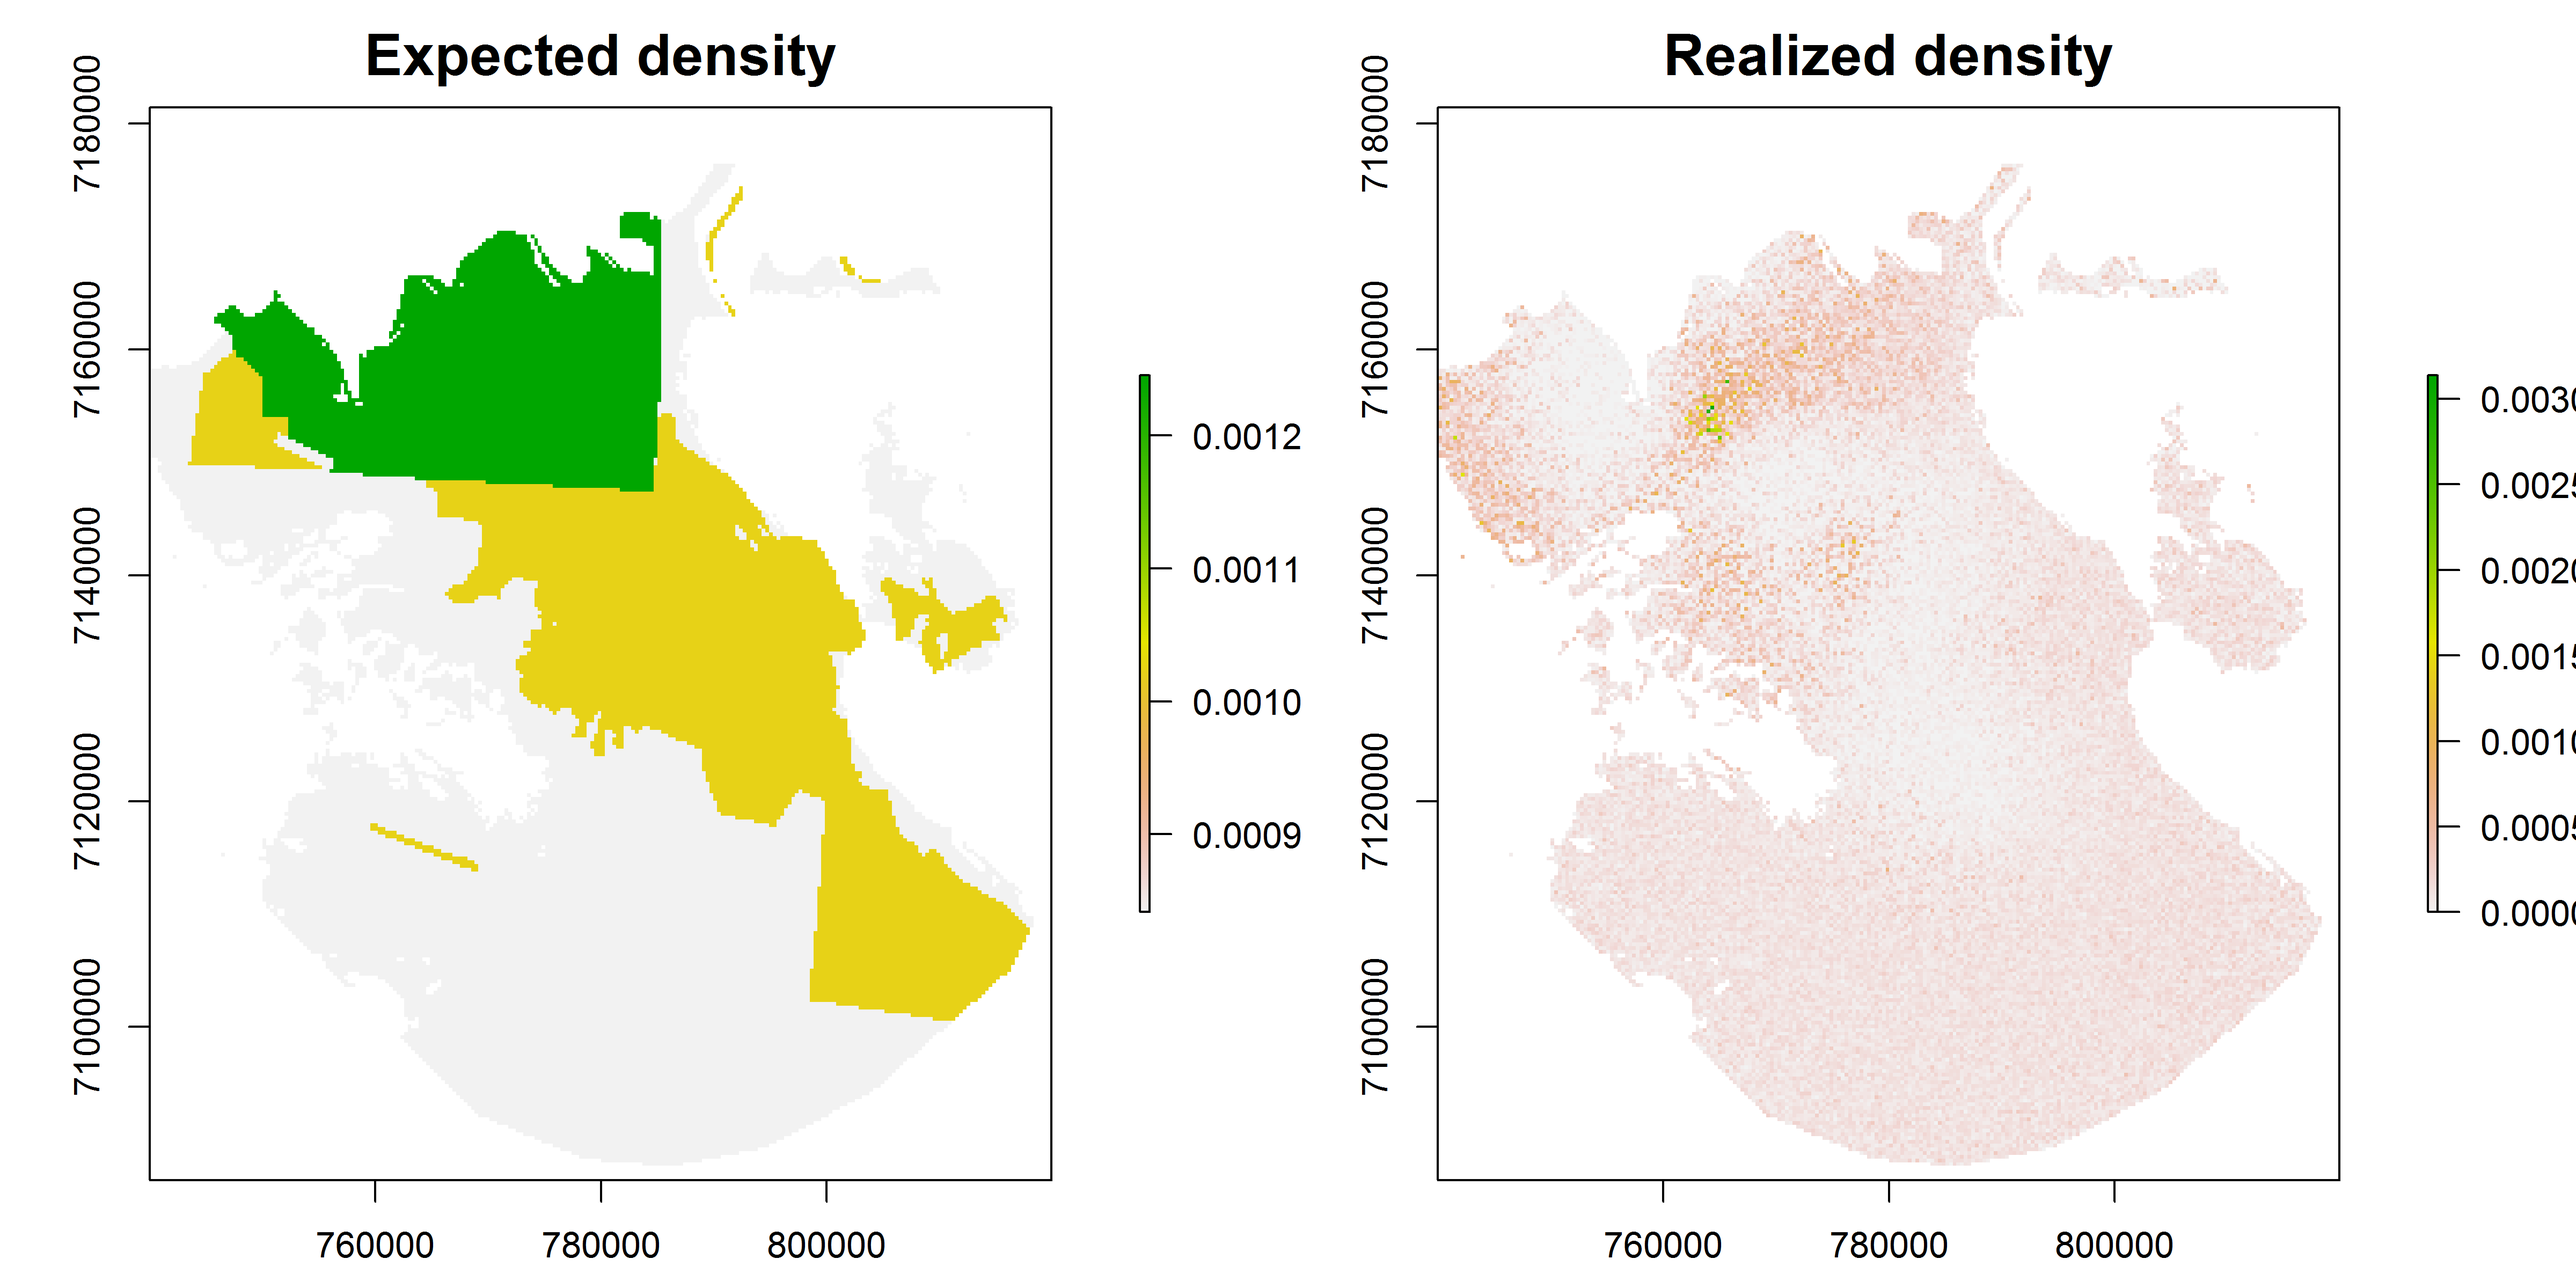
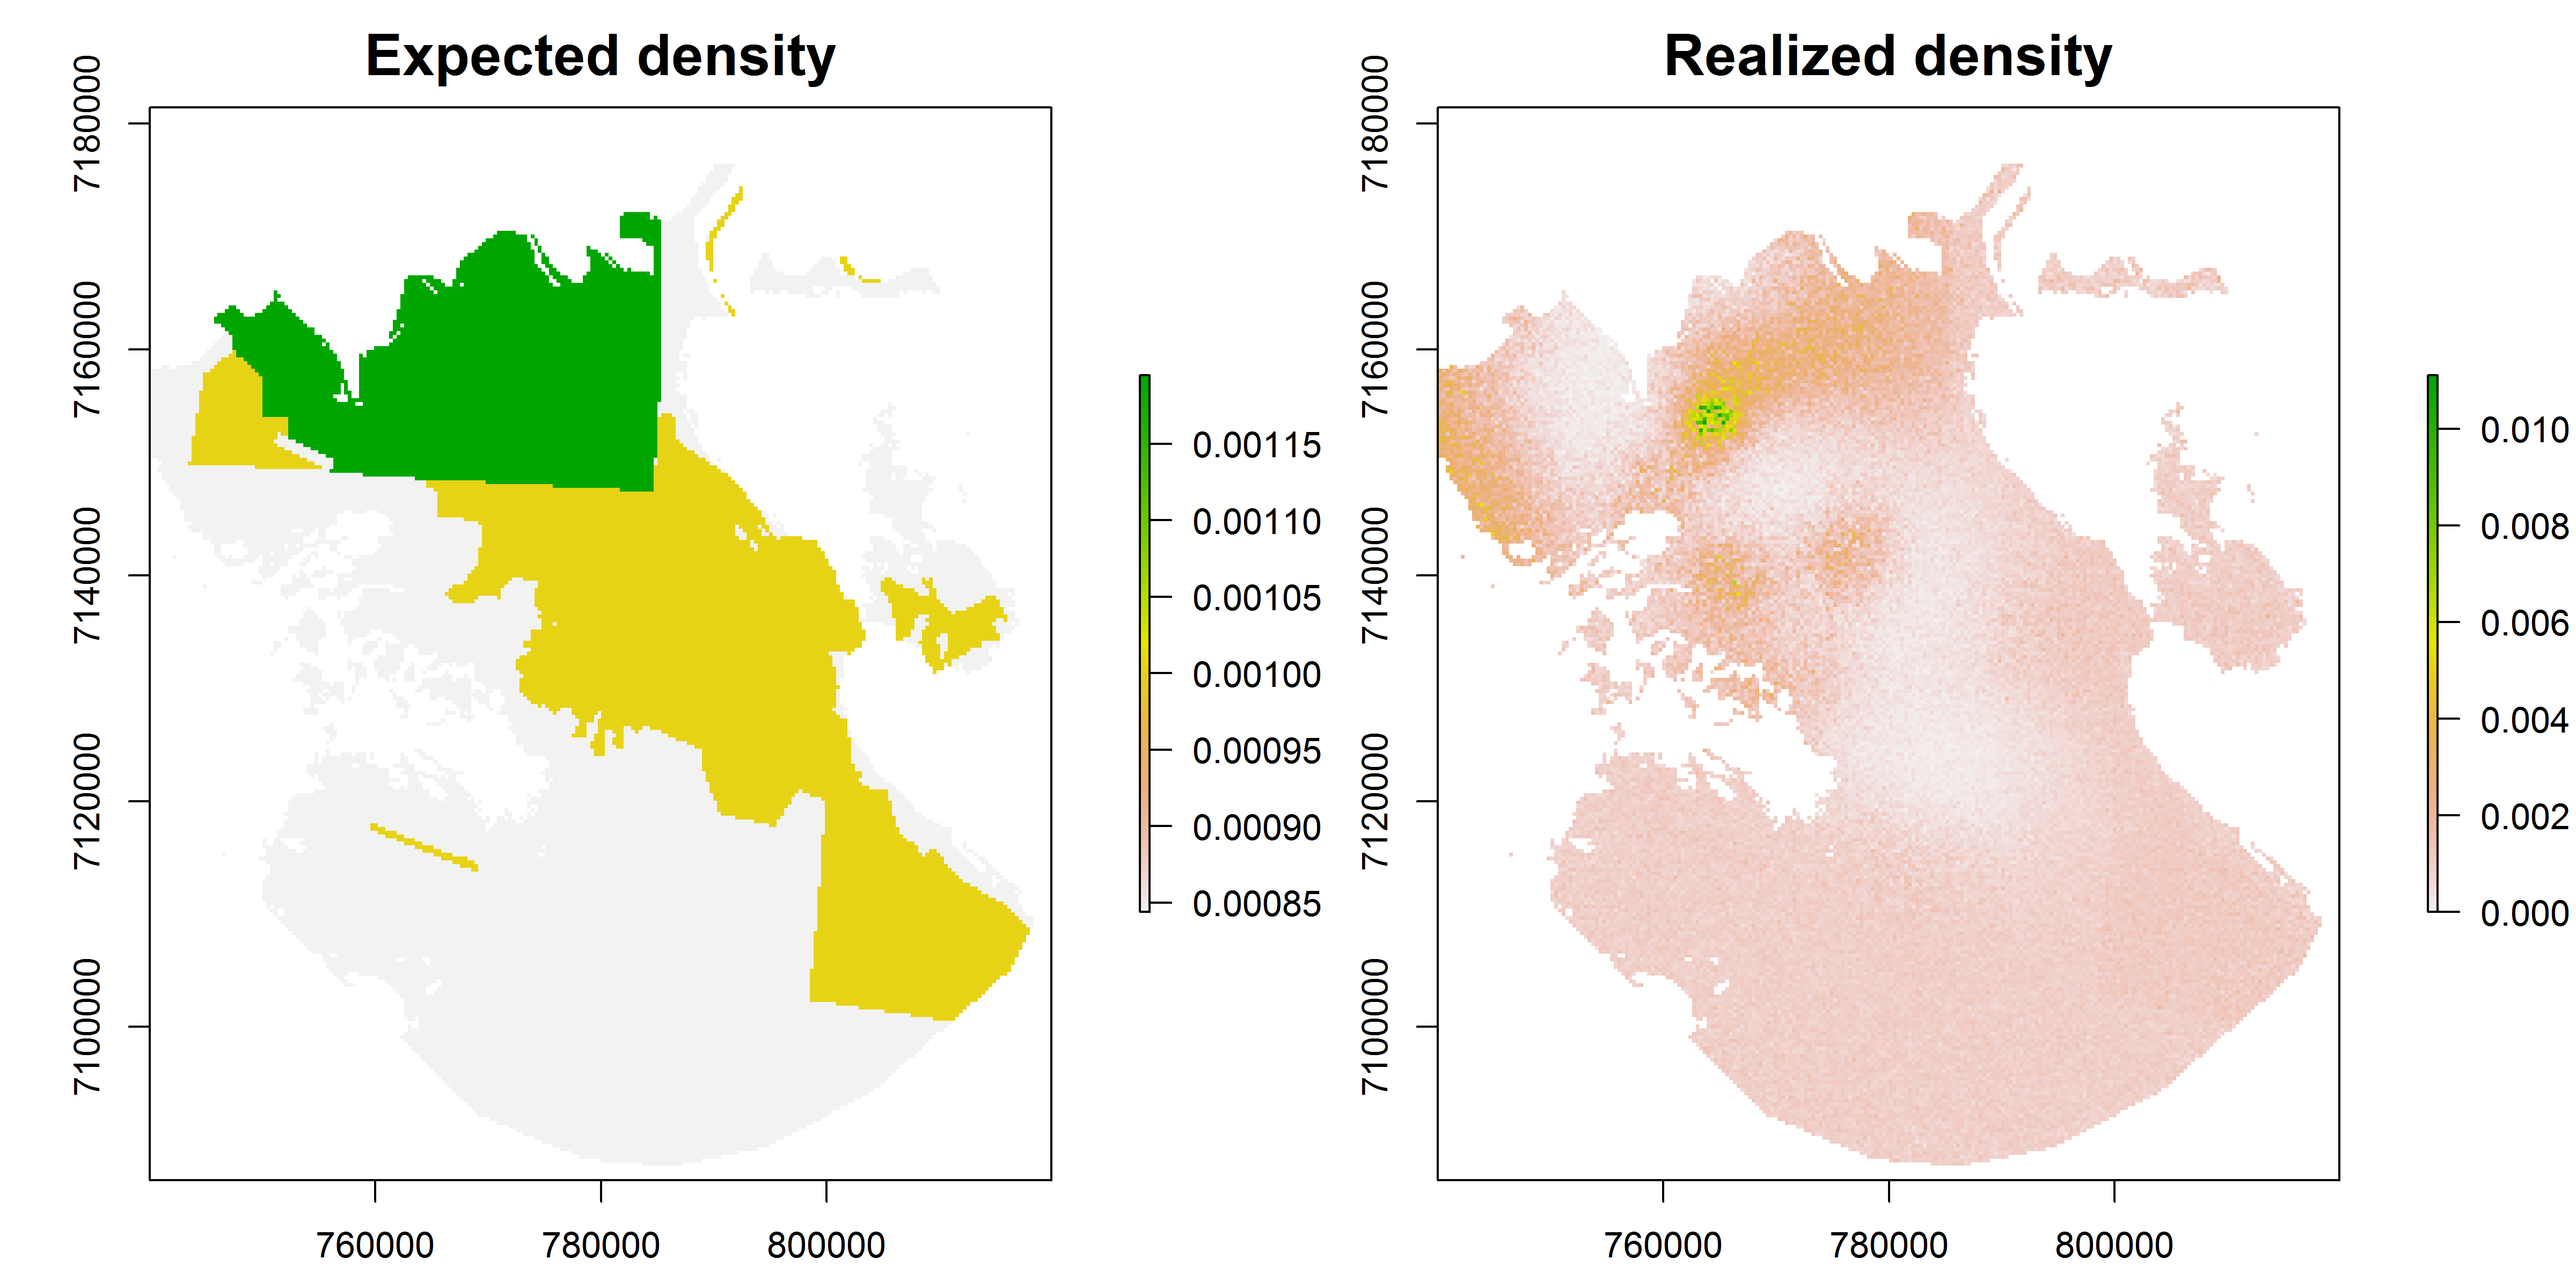
Final jaguar results in Ch11

diff --git a/Ch11-Statespace/Chapt-Statespace.tex b/Ch11-Statespace/Chapt-Statespace.tex
@@ -1117,7 +1117,7 @@ jaguars themselves are occasionally killed by
 poachers, the larger concern is the influence of poaching on prey
 species. To protect jaguars and related species, protected areas have
 been established and three levels of protection are
-recognized as depicted in Fig.~\ref{state-space.fig.jaguarCts}. The dark green
+recognized, as depicted in Fig.~\ref{state-space.fig.jaguarCts}. The dark green
 area is the Iguaz\'{u} National Park that is patrolled regularly by law enforcement
 officials. The light green areas are officially protected, but due to
 resource limitations, are not patrolled as often. The beige areas are
@@ -1127,18 +1127,24 @@ monocultures, which provide no habitat.
 To test for differences in
 density between the three regions, we modeled the point process intensity parameter
 as a function of protection status (PROTECT), which we treated as an
-ordinal variable: $\mu(\mathbf{s}, \bm{\beta}) = \exp(\beta_0 +
-\beta_1\text{PROTECT}(\mathbf{s}))$. We predicted that $\beta_1$
+ordinal variable:
+\[
+\mu(\mathbf{s}, \bm{\beta}) = \exp(\beta_0 + \beta_1\text{PROTECT}(\mathbf{s}))\times \text{pixelArea}.
+\]
+We predicted that $\beta_1$
 would be greater than zero,
 indicating that jaguar density increases with protection status. In
 addition to modeling spatial variation in density, we also modeled the
-scale parameter of the half-normal or Gaussian encounter model as
-sex-specific, since male cats typically have larger home ranges than
+scale parameter of the half-normal (or Gaussian) encounter model as
+sex-specific because male cats typically have larger home ranges than
 females \citep{sollmann_etal:2011}. Since sex is an
 individual-specific covariate, and not observed for the individuals
 that were not captured, a prior is required for the sex of uncaptured
-individuals. We used an Bernoulli prior with probability 0.5 to
-describe our uncertainty about sex ratio.
+individuals. We used a Bernoulli prior with probability 0.5 to
+describe our uncertainty about sex ratio. Another equivalent option is
+to augment the data with an equal number of males and females and let
+the MCMC algorithm determine which of these individuals are actually
+members of the population.
 
 \begin{figure}%[ht]
 \centering
@@ -1150,26 +1156,32 @@ describe our uncertainty about sex ratio.
   (soybean monocultures) is shown in gray. }
 \end{figure}
 
-The geometry of the state-space differs greatly from the simple square
-regions that we have considered throughout this chapter, which raises
-a few questions. First, how would one integrate
-Eq.~\ref{state-space.eq.pdf.hetero} over a
-complex spatial region? Earlier we used the function \verb+cuhre+ in
+An additional unique aspect of this study is the highly irregular
+state-space. Unlike in the examples of simulated data, the
+geometry of this state-space is not a simple rectangular
+region. Instead, it is the
+%In this example, we restricted the state-space to exclude the large
+%soybean monocultures surrounding the study area, and we only
+%considered
+area south of the Iguaz\'{u} River, which runs along the northern border
+of the park shown in dark green in
+Fig.~\ref{state-space.fig.jaguarCts}, and it excludes the large
+soybean monocultures.
+%Rather than restricting the
+%state-space, we could have modeled the permeability of the river using
+%the methods described in the previous section and in
+%Chapter~\ref{chapt.ecoldist}; however, no sampling was conducted on
+%the northern side of the river, and ancillary data indicates that
+%jaguars rarely forge the waterway.
+Fitting models in highly convoluted spatial regions raises
+the question: How does one integrate
+Eq.~\ref{state-space.eq.pdf.hetero} over this irregular space? Earlier we used the function \verb+cuhre+ in
 \R~for the two-dimensional integration, but its \verb+lower+ and
 \verb+upper+ arguments essentially assume that the state-space is
-square. There are methods of transforming the state-space to make this
-work, but once again we find that it is most convenient to work in
-discrete space and sum over all the pixels defining
-$\mathcal{S}$. In this example, we restricted the state-space to exclude the large
-soybean monocultures surrounding the study area, and we only
-considered area south of the Iguaz\'{u} River, which runs along the northern border
-of the park shown in dark green in
-Fig.~\ref{state-space.fig.jaguarCts}. Rather than restricting the
-state-space, we could have modeled the permeability of the river using
-the methods described in the previous section and in
-Chapter~\ref{chapt.ecoldist}; however, no sampling was conducted on
-the northern side of the river, and ancillary data indicates that
-jaguars rarely forge the waterway.
+square. There are methods of transforming the state-space that might
+allow us to work around this problem, but once again we find that it
+is most convenient to work in discrete space and sum over all the pixels defining
+$\mathcal{S}$.
 
 We fit the model to data from a single year of data from 46
 camera stations, each consisting of a pair of cameras placed along
@@ -1181,7 +1193,7 @@ number of captures was in the national park, but there were also
 several traps in the park with no captures. Furthermore, few cameras
 were placed far from the protected areas, making it somewhat difficult
 to detect differences in density. \R~code to fit the model is
-available in \scrbook  on the help page \verb+jaguarDataCh9+.
+available in \scrbook~on the help page \verb+jaguarDataCh11+.
 Parameter estimates are shown in Table\ref{state-space.tab.jagposts}.
 
 
@@ -1210,34 +1222,44 @@ Parameter estimates are shown in Table\ref{state-space.tab.jagposts}.
 \hline
 & Mean & SD & 2.5\% & 97.5\% \\
 \hline
- $\sigma_\text{female}$ 	& 5434.886 	& 883.7433 	& 4093.6069 	& 7549.062 \\
- $\sigma_\text{male}$ 	& 6208.341 	& 822.6217 	& 4881.4060 	& 8093.759 \\
- $\lambda_0$ 	&    0.013 	&   0.0036 	&    0.0068 	&    0.021 \\
- $\beta_0$ 	&   -4.667 	&   0.2866 	&   -5.2527 	&   -4.093 \\
- $\beta_1$ 	&    0.196 	&   0.3672 	&   -0.5179 	&    0.961 \\
- $\rho$ 	&    0.541 	&   0.0551 	&    0.4286 	&    0.644 \\
- $N$ 	        &   36.428 	&   9.6986 	&   23.0000 	&   61.000 \\
- $D_\text{low}$ 	&    0.921 	&   0.3851 	&    0.3789 	&    1.894 \\
- $D_\text{med}$ 	&    0.775 	&   0.3006 	&    0.2653 	&    1.503 \\
- $D_\text{high}$ &    1.444 	&   0.3325 	&    0.8791 	&    2.110 \\
+ $\sigma_\text{female}$ 	& 5501.204 	& 876.8774 	& 4142.2756 	& 7578.5692 \\
+ $\sigma_\text{male}$ 	& 6452.570 	& 915.3623 	& 4970.3215 	& 8505.5219 \\
+ $\lambda_0$ 	&    0.006 	&   0.0016 	&    0.0034 	&    0.0098 \\
+ $\psi$ 	&    0.355 	&   0.0937 	&    0.1998 	&    0.5638 \\
+ $\beta_0$ 	&   -4.686 	&   0.2602 	&   -5.2346 	&   -4.2129 \\
+ $\beta_1$ 	&    0.174 	&   0.3500 	&   -0.5104 	&    0.8649 \\
+ $N$ 	&   35.819 	&   7.9749 	&   23.0000 	&   54.0000 \\
+ Sex Ratio 	&    0.489 	&   0.0550 	&    0.3824 	&    0.6000 \\
+ $D_\text{low}$ 	&    0.906 	&   0.3265 	&    0.3813 	&    1.6682 \\
+ $D_\text{med}$ 	&    0.770 	&   0.2841 	&    0.2698 	&    1.4392 \\
+ $D_\text{high}$ 	&    1.370 	&   0.3069 	&    0.8315 	&    1.9955 \\
+% $\sigma_\text{female}$ 	& 5434.886 	& 883.7433 	& 4093.6069 	& 7549.062 \\
+% $\sigma_\text{male}$ 	& 6208.341 	& 822.6217 	& 4881.4060 	& 8093.759 \\
+% $\lambda_0$ 	&    0.013 	&   0.0036 	&    0.0068 	&    0.021 \\
+% $\beta_0$ 	&   -4.667 	&   0.2866 	&   -5.2527 	&   -4.093 \\
+% $\beta_1$ 	&    0.196 	&   0.3672 	&   -0.5179 	&    0.961 \\
+% $\rho$ 	&    0.541 	&   0.0551 	&    0.4286 	&    0.644 \\
+% $N$ 	        &   36.428 	&   9.6986 	&   23.0000 	&   61.000 \\
+% $D_\text{low}$ 	&    0.921 	&   0.3851 	&    0.3789 	&    1.894 \\
+% $D_\text{med}$ 	&    0.775 	&   0.3006 	&    0.2653 	&    1.503 \\
+% $D_\text{high}$ &    1.444 	&   0.3325 	&    0.8791 	&    2.110 \\
  \hline
 \end{tabular}
 \label{state-space.tab.jagposts}
 \end{table}
 
 The results indicate that efforts to protect jaguars by reducing
-poaching in protected areas are not working as well as hoped
-for. The
-posterior probability that $\beta_0 > 0$ was 0.705, and
-the posterior mean of realized density was only 58\% higher in the national park than in the
+poaching in protected areas are not working as well as hoped for. The
+posterior probability that $\beta_1 > 0$ was only 0.69, and
+the posterior mean of realized density was only 51\% higher in the national park than in the
 unprotected area. Fig.~\ref{state-space.fig.Dsurface} shows the estimated
-density surfaces. The first map is the expected density (posterior mean) in each of
+density surfaces. The first map is the expected density in each of
 the three values, which was computed by plugging in the posterior mean
 values of $\beta_0$ and $\beta_1$ into the log-linear intensity
-function. The second map is the realized density surface. This is the,
-conditional on $N$, probability distribution for the number of
+function. The second map is the realized density surface---the
+conditional-on-$N$ probability distribution of the number of
 activity centers in each pixel of the rasterized
-state-space---here shown as the posterior mean. The expected values
+state-space. The expected values
 would be used if we were interested in making inferences about other
 areas or time periods, whereas the realized map is the best
 description of the system during the study period.
@@ -1246,10 +1268,10 @@ description of the system during the study period.
 \centering
 \includegraphics[width=\textwidth]{Ch11-Statespace/figs/reD}
 \label{state-space.fig.Dsurface}
-\caption{Estimated density surfaces from the analysis of the jaguar data.}
+\caption{Estimated density (activity centers / pixel) surfaces from the analysis of the jaguar data.}
 \end{figure}
 
-We note that there is room for improvement in our analysis and our
+We note that there is room for improvement in our analysis, and our
 results should be considered preliminary. The
 political boundaries used to demarcate protected areas are not as
 concrete as we might like. In reality poaching pressure is likely
